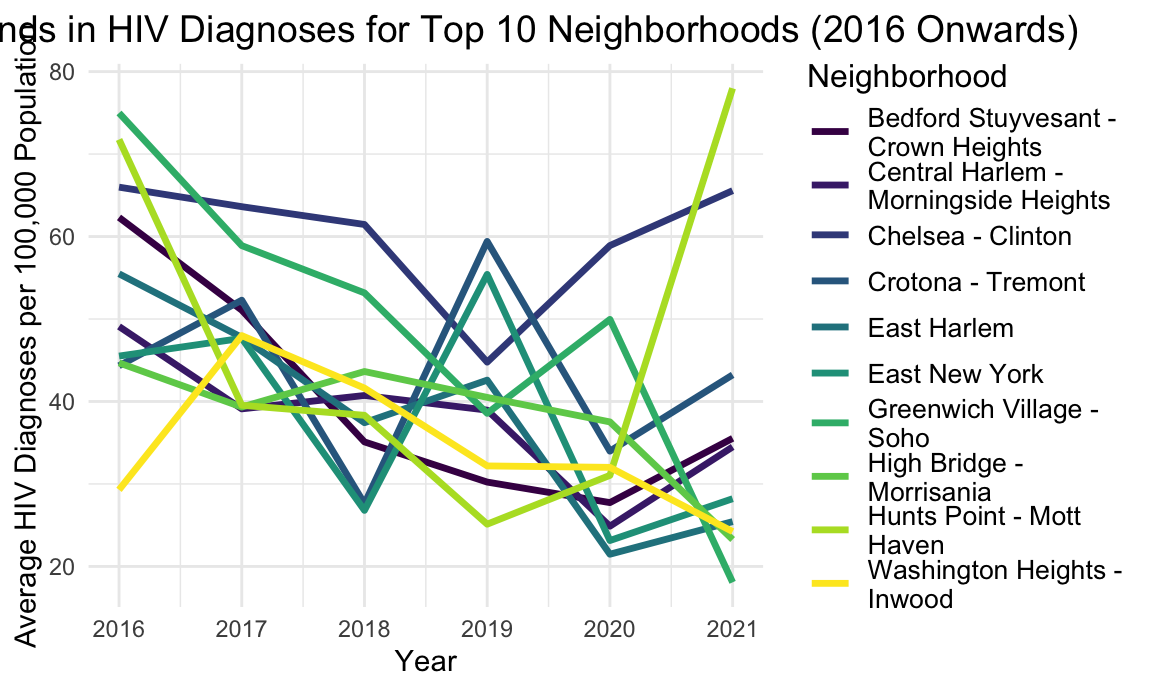
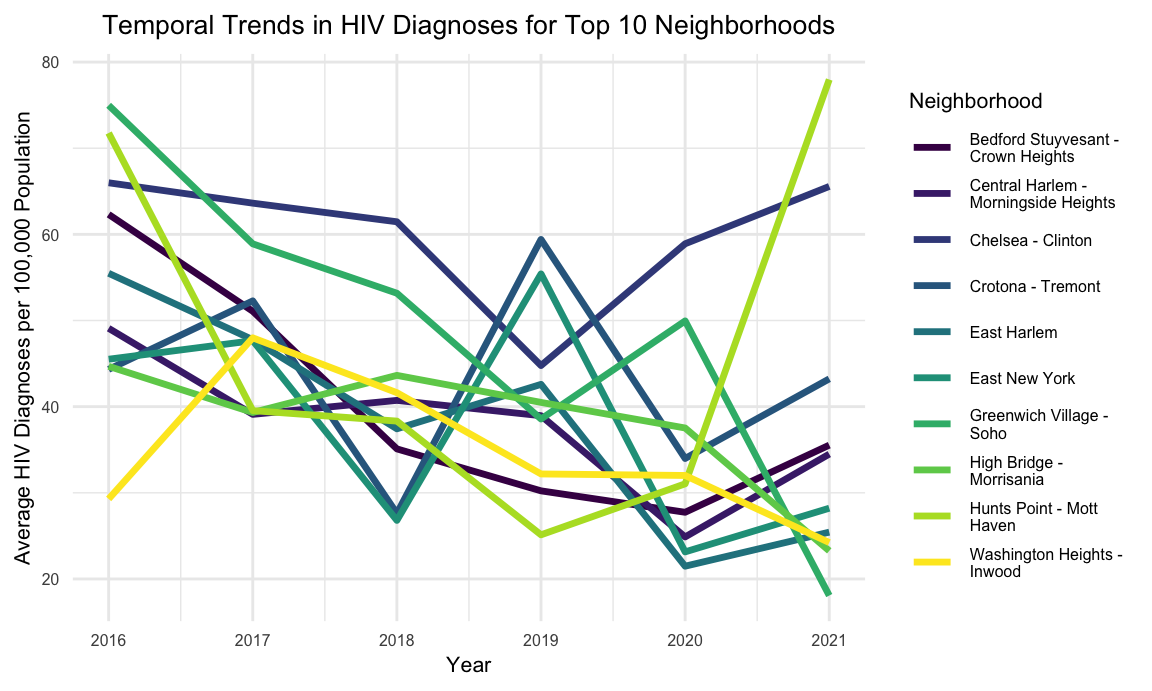
pic adjust

diff --git a/Data_analysis.html b/Data_analysis.html
@@ -394,21 +394,23 @@ head(hiv_trends)</code></pre>
 ## 4  2016 &quot;Bensonhurst - Bay\nRidge&quot;                   14.4           8.93
 ## 5  2016 &quot;Borough Park&quot;                                9.97          7.41
 ## 6  2016 &quot;Canarsie - Flatlands&quot;                       13.4           5.38</code></pre>
-<pre class="r"><code># Plot HIV diagnosis trends by neighborhood with a legend
+<pre class="r"><code># Plot HIV diagnosis trends by neighborhood
 ggplot(hiv_trends, aes(x = YEAR, y = avg_hiv_rate, group = Neighborhood, color = Neighborhood)) +
-  geom_line(size = 0.8, alpha = 0.7) +
+  geom_line(size = 0.5, alpha = 0.6) + 
   labs(
-    title = &quot;Temporal Trends in HIV Diagnoses by Neighborhood (2016 Onwards)&quot;,
+    title = &quot;Temporal Trends in HIV Diagnoses by Neighborhood&quot;,
     x = &quot;Year&quot;,
     y = &quot;Average HIV Diagnoses per 100,000 Population&quot;,
     color = &quot;Neighborhood&quot;
   ) +
   theme_minimal() +
   theme(
-    legend.position = &quot;right&quot;, # Display the legend on the right
-    plot.title = element_text(hjust = 0.5),
-    legend.text = element_text(size = 8),
-    legend.title = element_text(size = 10)
+    legend.position = &quot;right&quot;,
+    legend.text = element_text(size = 6), 
+    legend.title = element_text(size = 8),
+    plot.title = element_text(hjust = 0.5, size = 10), 
+    axis.text = element_text(size = 6),  
+    axis.title = element_text(size = 8)  
   )</code></pre>
 <p><img src="Data_analysis_files/figure-html/unnamed-chunk-5-1.png" width="90%" /></p>
 <pre class="r"><code># Calculate the mean HIV diagnosis rate for each neighborhood
@@ -446,7 +448,7 @@ head(top_hiv_trends)</code></pre>
 ggplot(top_hiv_trends, aes(x = YEAR, y = avg_hiv_rate, group = Neighborhood, color = Neighborhood)) +
   geom_line(size = 1.2) +
   labs(
-    title = &quot;Temporal Trends in HIV Diagnoses for Top 10 Neighborhoods (2016 Onwards)&quot;,
+    title = &quot;Temporal Trends in HIV Diagnoses for Top 10 Neighborhoods&quot;,
     x = &quot;Year&quot;,
     y = &quot;Average HIV Diagnoses per 100,000 Population&quot;,
     color = &quot;Neighborhood&quot;
@@ -454,26 +456,30 @@ ggplot(top_hiv_trends, aes(x = YEAR, y = avg_hiv_rate, group = Neighborhood, col
   theme_minimal() +
   theme(
     legend.position = &quot;right&quot;,
-    legend.text = element_text(size = 10),
-    legend.title = element_text(size = 12),
-    plot.title = element_text(hjust = 0.5, size = 14)
+    legend.text = element_text(size = 6), 
+    legend.title = element_text(size = 8),
+    plot.title = element_text(hjust = 0.5, size = 10), 
+    axis.text = element_text(size = 6),  
+    axis.title = element_text(size = 8)  
   )</code></pre>
 <p><img src="Data_analysis_files/figure-html/unnamed-chunk-6-1.png" width="90%" /></p>
 <pre class="r"><code># Plot AIDS diagnosis trends by neighborhood with a legend
 ggplot(hiv_trends, aes(x = YEAR, y = avg_aids_rate, group = Neighborhood, color = Neighborhood)) +
   geom_line(size = 0.8, alpha = 0.7) +
   labs(
-    title = &quot;Temporal Trends in AIDS Diagnoses by Neighborhood (2016 Onwards)&quot;,
+    title = &quot;Temporal Trends in AIDS Diagnoses by Neighborhood&quot;,
     x = &quot;Year&quot;,
     y = &quot;Average AIDS Diagnoses per 100,000 Population&quot;,
     color = &quot;Neighborhood&quot;
   ) +
   theme_minimal() +
   theme(
-    legend.position = &quot;right&quot;, # Display the legend on the right
-    plot.title = element_text(hjust = 0.5),
-    legend.text = element_text(size = 8),
-    legend.title = element_text(size = 10)
+    legend.position = &quot;right&quot;,
+    legend.text = element_text(size = 6), 
+    legend.title = element_text(size = 8),
+    plot.title = element_text(hjust = 0.5, size = 10), 
+    axis.text = element_text(size = 6),  
+    axis.title = element_text(size = 8)  
   )</code></pre>
 <p><img src="Data_analysis_files/figure-html/unnamed-chunk-7-1.png" width="90%" /></p>
 <pre class="r"><code># Calculate mean rates for each neighborhood
@@ -508,17 +514,19 @@ filtered_aids_trends &lt;- hiv_data %&gt;%
 ggplot(filtered_hiv_trends, aes(x = YEAR, y = avg_hiv_rate, group = Neighborhood, color = Neighborhood)) +
   geom_line(size = 1) +
   labs(
-    title = &quot;Temporal Trends in HIV Diagnoses (Top 10 Neighborhoods, 2016 Onwards)&quot;,
+    title = &quot;Temporal Trends in HIV Diagnoses (Top 10 Neighborhoods)&quot;,
     x = &quot;Year&quot;,
     y = &quot;Average HIV Diagnoses per 100,000 Population&quot;,
     color = &quot;Neighborhood&quot;
   ) +
   theme_minimal() +
   theme(
-    legend.position = &quot;right&quot;, # Display legend
-    plot.title = element_text(hjust = 0.5),
-    legend.text = element_text(size = 8),
-    legend.title = element_text(size = 10)
+    legend.position = &quot;right&quot;,
+    legend.text = element_text(size = 6), 
+    legend.title = element_text(size = 8),
+    plot.title = element_text(hjust = 0.5, size = 10), 
+    axis.text = element_text(size = 6),  
+    axis.title = element_text(size = 8)  
   )</code></pre>
 <p><img src="Data_analysis_files/figure-html/unnamed-chunk-8-1.png" width="90%" /></p>
 <pre class="r"><code># Fit a linear regression model for year predicting HIV diagnosis rates
